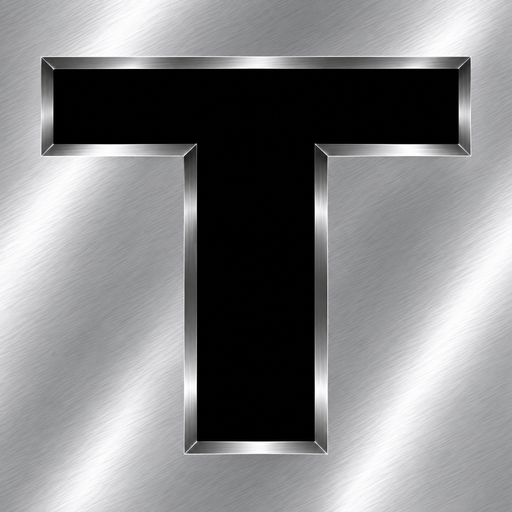
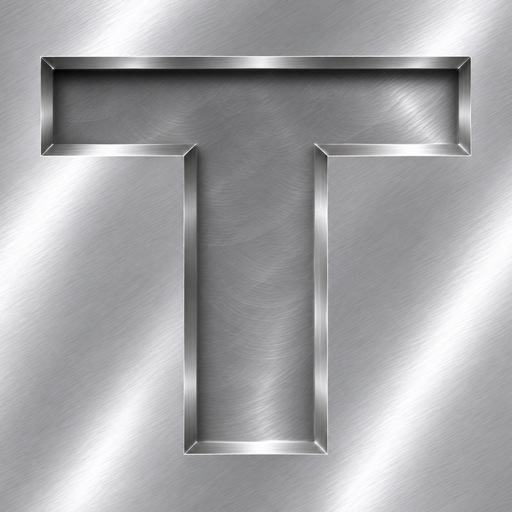
Νέο λογότυπο: ασημί με χαραγμένο T
Claude-Session: https://claude.ai/code/session_01FykctA7DpWM633uHqDsqFv

Changed region(s): [[0.0938, 0.125, 0.9375, 0.9062], [0.0625, 0.2812, 0.0938, 0.3125]]

diff --git a/test.html b/test.html
@@ -19,9 +19,9 @@
 <meta charset="UTF-8">
 <meta name="viewport" content="width=device-width, initial-scale=1.0, maximum-scale=1.0, viewport-fit=cover">
 <!-- Εικονίδιο / «Προσθήκη στην οθόνη Αφετηρίας» (χωρίς start_url: ανοίγει τη σελίδα από την οποία προστέθηκε) -->
-<link rel="manifest" href="manifest.webmanifest?v=3">
-<link rel="apple-touch-icon" href="icons/apple-touch-icon.png?v=3">
-<link rel="icon" type="image/png" href="icons/favicon-64.png?v=3">
+<link rel="manifest" href="manifest.webmanifest?v=4">
+<link rel="apple-touch-icon" href="icons/apple-touch-icon.png?v=4">
+<link rel="icon" type="image/png" href="icons/favicon-64.png?v=4">
 <meta name="apple-mobile-web-app-capable" content="yes">
 <meta name="mobile-web-app-capable" content="yes">
 <meta name="apple-mobile-web-app-title" content="TRANSFORMATION">
@@ -1485,7 +1485,7 @@ body.hand-mode :is(input[type=text], input[type=number], input:not([type]), text
 <div class="mobile-topbar hidden" id="mobile-topbar">
   <div style="display:flex;align-items:center;justify-content:space-between;width:100%;">
     <div class="brand">
-      <span class="brand-logo"><img class="brand-mark" src="icons/icon-192.png?v=3" alt="TRANSFORMATION"></span>
+      <span class="brand-logo"><img class="brand-mark" src="icons/icon-192.png?v=4" alt="TRANSFORMATION"></span>
       <div class="brand-text"><div class="t1">TRANSFORMATION</div></div>
     </div>
     <button id="mobile-logout" title="Αποσύνδεση" style="width:38px;height:38px;flex-shrink:0;border-radius:10px;border:1px solid rgba(239,45,53,.35);background:rgba(239,45,53,.12);color:#ffb3b3;display:flex;align-items:center;justify-content:center;">
@@ -1498,7 +1498,7 @@ body.hand-mode :is(input[type=text], input[type=number], input:not([type]), text
 <div id="app" class="hidden">
   <div class="sidebar">
     <div class="brand">
-      <span class="brand-logo"><img class="brand-mark" src="icons/icon-192.png?v=3" alt="TRANSFORMATION"></span>
+      <span class="brand-logo"><img class="brand-mark" src="icons/icon-192.png?v=4" alt="TRANSFORMATION"></span>
       <div class="brand-text">
         <div class="t1">TRANSFORMATION</div>
         <div class="t2">Πρόγραμμα Γυμναστικής</div>
@@ -4948,7 +4948,7 @@ const ICON = {
 function authShell(inner){
   return `<div class="auth-card">
     <div class="auth-logo">
-      <span class="brand-logo"><img class="brand-mark" src="icons/icon-192.png?v=3" alt="TRANSFORMATION"></span>
+      <span class="brand-logo"><img class="brand-mark" src="icons/icon-192.png?v=4" alt="TRANSFORMATION"></span>
       <div class="brand-text"><div class="t1" style="color:var(--ink);">TRANSFORMATION</div><div class="t2" style="color:var(--ink-soft);">Πρόγραμμα Γυμναστικής</div></div>
     </div>
     ${inner}
